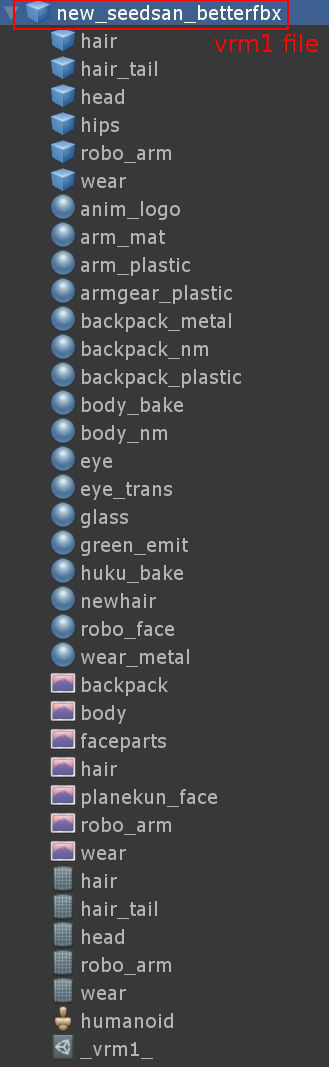
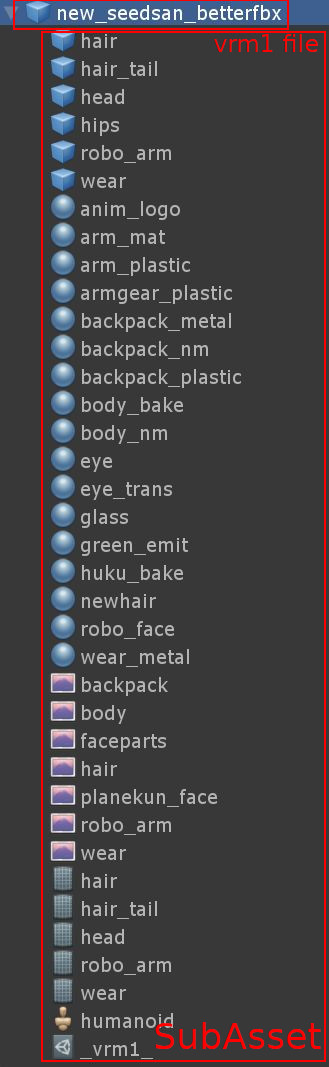
`v0.81.0` のインストール

Changed region(s): [[0.1216, 0.0309, 1.0, 1.0]]

diff --git a/content/ja/docs/gltf/scripted_importer.md b/content/ja/docs/gltf/scripted_importer.md
@@ -1,39 +1,40 @@
 ---
 title: 新しいEditorImporterの動作
-weight: 1
+weight: 12
+tags: ["gltf", "vrm-1.0"]
 ---
 
 ## AssetFile の作られ方
+
+### 以前の動作(独立したasset)
 
 VRM0 とv0.67以前のGLB/GLTF の Importerは、以下のように import されます。
 
 {{% alert title="vrm0 の import" color="warning" %}}
 
-{{< img width=200 src="images/vrm10/vrm0_import.jpg" >}}
+{{< img width=300 src="images/vrm10/vrm0_import.jpg" >}}
 
-*.vrm(*.glb) import 時
-
-* *.vrm 自体は Asset にならずに白い Asset ファイルとなる(何もしない)
-* この白いファイルに対して `*.meta` が作成されるときに AssetPostprocessor が動作して以下のリソースを作成します。
-* prefab を作成
-* prefab が参照するその他の Asset も作成
-  * texture(vrm に内包されている png, jpg をファイルとして書き出し)
-  * material
-  * mesh
-  * humanoid avatar
-  * vrm blendshape などの ScriptableObject
+* mesh や texture や material や blendshape などの関連アセットファイルが作成されます。
 
 {{% /alert %}}
+
+### 新しい動作(subasset)
 
 VRM1 とv0.68以降のGLB/GLTF の Importerは、以下のように import されます。
 
 {{% alert title="vrm1 の import" color="warning" %}}
 
-{{< img width=200 src="images/vrm10/vrm1_import.jpg" >}}
+{{< img width=300 src="images/vrm10/vrm1_import.jpg" >}}
 
-* *.vrm 自体が Asset になります
-* この Asset は、prefab の root の GameObject を表します(Prefabのようもの)
-* この GameObject ヒエラルキーが参照する Asset は、 `*.vrm` Asset の SubAsset として作成されます(個別のファイルにならない)
+* mesh や material や texture や Expression が SubAsset として作成されます。
+
+{{% /alert %}}
+
+{{% alert title="glb の import" color="warning" %}}
+
+{{< img width=600 src="images/gltf/glb_extract_before.jpg" >}}
+
+* material と texture が SubAsset として作成されます
 
 {{% /alert %}}
 
@@ -50,6 +51,12 @@ FBX の Importer も同様の動作です。
 
 {{% /alert %}}
 
+VRM1 とv0.68以降のGLB/GLTF では、Material タブなどで extract ができます。
+
+{{< img width=300 src="images/vrm10/extract_material.jpg" >}}
+{{< img width=300 src="images/vrm10/extract_vrm_empty.jpg" >}}
+{{< img width=300 src="images/vrm10/extract_vrm.jpg" >}}
+
 {{% alert title="fbx の extract" color="warning" %}}
 
 fbx importer の material タブには下記のようなボタンがあります。
@@ -61,21 +68,23 @@ fbx importer の material タブには下記のようなボタンがあります
 
 {{% /alert %}}
 
-VRM1 では、Material タブと VRM タブでリソースの extract ができます。
-
-* Materialsタブ: Texture と Material を Extract できます
-* Vrmタブ: VRM1Object(Meta, LookAt, FirstPerson) と VRM1Expression を Extract できます
-
-{{< img width=300 src="images/vrm10/extract_material.jpg" >}}
-
 ## 外部の Asset と VRM を関連付ける Remap
 
 初期状態では vrm 内部の Asset が使用されますが、これを外部の Asset と置き換えることができます。
 置き換えの関連付けを管理するのが Remap です。
 
-{{% alert title="remap" color="warning" %}}
+* None になっているときは、 `vrm`, `glb` に内部の SubAsset を使用しているという意味になります。
+* Extract以外にも、個別に既存のAssetを割り当てできます
+
+{{% alert title="extract 後" color="warning" %}}
 
 {{< img width=300 src="images/vrm10/remap_materials.jpg" >}}
+
+{{< img width=700 src="images/gltf/glb_extract_after.jpg" >}}
+
+{{< img width=700 src="images/gltf/vrm1_extract_after.jpg" >}}
+
+SubAsset が書き出され、それが Remap に代入されます。
 
 {{% /alert %}}
 

diff --git a/content/ja/docs/univrm/_index.md b/content/ja/docs/univrm/_index.md
@@ -7,10 +7,43 @@ menu:
 aliases: ["/univrm/"]
 ---
 
-- [VRMファイルを作ってみたい]({{< relref "how_to_make_vrm" >}})
-- [Download](https://github.com/vrm-c/UniVRM/releases)
+## Install 方法
 
-# エラーが出る場合
+`v0.81.0` から `unitypackage` が２つ必要です。
+`v0.80.0` 以前のインストールは [こちら]({{< relref "univrm_install" >}})
+
+### UnityPackage を使ったインストール
+
+<https://github.com/vrm-c/UniVRM/releases> から `unitypackage` をダウンロードしてください。
+`UniGLTF_VRMShaders` 、 `UniVRM` という順番で２つのパッケージをインストールしてください。
+
+`UnityPackage` は３種類あり用途は下記のとおりです。
+`v0.81.0` からパッケージの分け方を変更しました。
+
+|          | UniGLTF_VRMShaders | UniVRM  | VRM     |
+|----------|--------------------|---------|---------|
+| for GLTF | install            |         |         |
+| for VRM  | install            | install |         |
+| for VRM1 | install            |         | install |
+
+`Sample` パッケージは廃止になりました。 `UPM` の `Sample` 機能でインストールできます。
+
+### UPM を使ったインストール
+
+`v0.81.0` から `com.vrmc.unigltf` が `com.vrmc.gltf` に変更になしました。(`com.vrmc.unigltf` が独自のバージョンを持っていたのをやめるため)。
+
+```json
+{
+  "dependencies": {
+    "com.vrmc.vrmshaders": "https://github.com/vrm-c/UniVRM.git?path=/Assets/VRMShaders#v0.81.0",
+    "com.vrmc.gltf": "https://github.com/vrm-c/UniVRM.git?path=/Assets/UniGLTF#v0.81.0", // <= unigltf から変わりました(v0.81.0)
+    "com.vrmc.univrm": "https://github.com/vrm-c/UniVRM.git?path=/Assets/VRM#v0.81.0",
+    // for VRM-1.0β
+    "com.vrmc.vrm": "https://github.com/vrm-c/UniVRM.git?path=/Assets/VRM10#v0.81.0",} // <= univrm1 から変わりました(v0.81.0)
+}
+```
+
+### エラーが出る場合
 
 コンソール画面の内容をご確認ください。
 コンソール画面はメニューから表示できます。

diff --git a/content/ja/docs/gltf/update.md b/content/ja/docs/gltf/update.md
@@ -1,0 +1,47 @@
+---
+title: v0.66からv0.79の変更点
+weight: 1
+tags: ["gltf"]
+---
+
+`glTF` 部分の `UniVRM-0.66` からの主な更新点です。
+
+## ScriptedImporter の採用
+
+`glb`
+
+* UIの変更
+* SubAssetsの挙動変更
+* `ForceText` 時の動作が軽快に
+
+[ScriptedImporter]({{< relref "scripted_importer" >}})
+
+### 反転軸オプション追加
+
+`glb`
+
+* https://github.com/vrm-c/UniVRM/pull/755
+* https://github.com/vrm-c/UniVRM/pull/958
+
+* Exporter
+* RuntimeImport
+* EditorImport
+
+## Material関連
+### Smoothness(glTF) と Roughness(Unity) の変換ロジックを修正
+
+`pbr`
+
+* https://github.com/vrm-c/UniVRM/issues/388
+
+### Import/Export時に MetallicRoughnessOcclusion テクスチャーを一枚にまとめる
+
+`pbr`
+
+* https://github.com/vrm-c/UniVRM/issues/781
+
+### MipMap のインポート設定を修正
+
+`pbr`, `mtoon` 法線マップに影響が出やすい
+
+* https://github.com/vrm-c/UniVRM/issues/947

diff --git a/content/ja/docs/gltf/_index.md b/content/ja/docs/gltf/_index.md
@@ -1,0 +1,32 @@
+---
+title: "glTF"
+weight: 3
+---
+
+
+`UniVRM-0.79.0` 以降でリニューアルした `glTF` 関連の情報。
+
+## フォルダ
+
+* `Assets/UniGLTF`
+* `Assets/VRMShaders`
+
+## unitypackage
+
+`UniVRM-0.81.0` ～
+
+* `UniGLTF_VRMShaders-XXX.unitypackage`
+
+## UPM
+
+`UniVRM-0.81.0` ～ 
+
+* UPM の id を `com.vrmc.unigltf` から `com.vrmc.gltf` に id を変更しました。
+* UPM のバージョン番号を `UniGLTF` と同じに統一しました。
+
+```json
+{
+    "com.vrmc.vrmshaders": "https://github.com/vrm-c/UniVRM.git?path=/Assets/VRMShaders#v0.81.0",
+    "com.vrmc.gltf": "https://github.com/vrm-c/UniVRM.git?path=/Assets/UniGLTF#v0.81.0",
+}
+```

diff --git a/content/ja/docs/gltf/emission_glow.md b/content/ja/docs/gltf/emission_glow.md
@@ -1,11 +1,9 @@
 ---
 title: Emission と グロー(発光)
-weight: 2
+weight: 11
+tags: ["gltf", "mtoon-1.0"]
 ---
 
-## glTF の Emission
-
-float3 で値の範囲が [0-1] です。
 
 ## 対象のシェーダー
 
@@ -32,6 +30,12 @@ if(max_value>1)
   emission = emission / max_value;
 }
 ```
+
+{{% /alert %}}
+
+{{% alert title="vrm-0.x は保存できる" color="info" %}}
+
+vrm-0.x は [0-1] 制限が無いので保存できます。
 
 {{% /alert %}}
 
